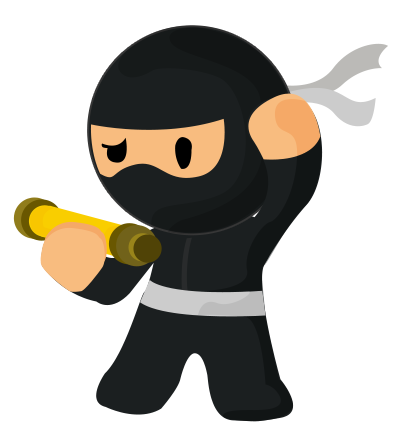
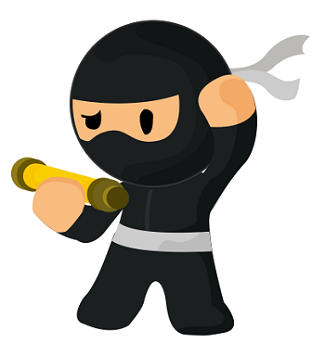
committing with images all linking propery, not showing characters yet

diff --git a/index.html b/index.html
@@ -10,6 +10,26 @@
 
 <script type="text/javascript">
 
+	$(document).ready(function(){
+		$('.step1 button').click(function(){
+			var picture = $(this).attr('data-img-src')
+			console.log(picture)
+			$('body').css('background-image','url('+picture+')');
+			$('.step1').toggle();
+			$('.step2').toggle();
+		})
+		$('.player1').change(function(){
+			var character1 = $('.player1 option:selected').attr('value')
+			console.log(character1);
+			$('.player1spot').css('background','url('+character1+') no-repeat center center')
+		})
+		$('.player2').change(function(){
+			var character2 = $('.player2 option:selected').attr('value')
+			console.log(character2);
+		})
+
+	})
+
 </script>
 
 </head>
@@ -58,7 +78,11 @@
 
 	</section>
 
-	
+
+	<div class="player1spot">
+	</div>
+	<div class="player2spot">
+	</div>
 
 </div>
 

diff --git a/styles.css b/styles.css
@@ -43,3 +43,7 @@ body {
 .step2 {
 	display: none;
 }
+.player1spot{
+	height: 500px;
+	width:  350px;
+}
